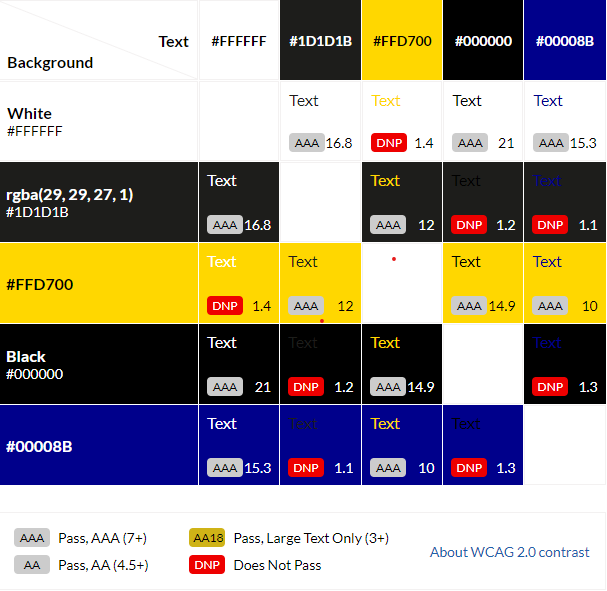
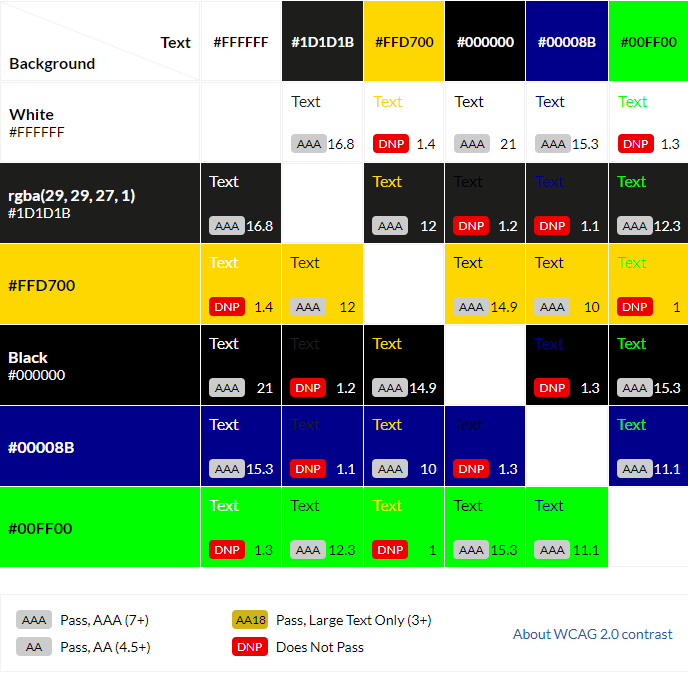
update eightshapes color grid image and README

diff --git a/README.md b/README.md
@@ -46,11 +46,13 @@ It is recommended for users to open any links found in this README with Ctrl + l
 * color: rgba(29, 29, 27, 0.9); Site background with transparency 0.9 to create my desired effect.
 * color: #FFD700; is used for the sites "game-area" I feel it fits with my chosen theme and helps with readability.
 * color: #00008B; for when the user hovers over a button as well as an underline to help the user with cursor location.
-* color: #000000; I chose this colour for text inside the gold game areas to improve readability.#
+* color: #000000; I chose this colour for text inside the gold game areas to improve readability.
+* color: #00FF00; I used this color for the score area for a winning point.
+* color: #FFFFFF; I have used this color for negative score in score area.
 * I have primarily used Hex for my colour scheme but to reach the effect for my background I used rgba also.
 * All the colours have been chosen to fit with the theme I am going for as well as having high accessibility.
 
-![Eightshapes Contrast Grid](assets/readme-files/Contrast-Grid-P2.png) 
+![Eightshapes Contrast Grid](assets/readme-files/Contrast-Grid-P2.png)
 
 [Eightshapes Contrast Grid](https://contrast-grid.eightshapes.com/?version=1.1.0&background-colors=&foreground-colors=%23FFFFFF%2C%20White%0D%0A%231D1D1B%2Crgba(29%2C%2029%2C%2027%2C%201)%0D%0A%23FFD700%0D%0A%23000000%2C%20Black%0D%0A%2300008B%0D%0A&es-color-form__tile-size=compact&es-color-form__show-contrast=aaa&es-color-form__show-contrast=aa&es-color-form__show-contrast=aa18&es-color-form__show-contrast=dnp)
 
